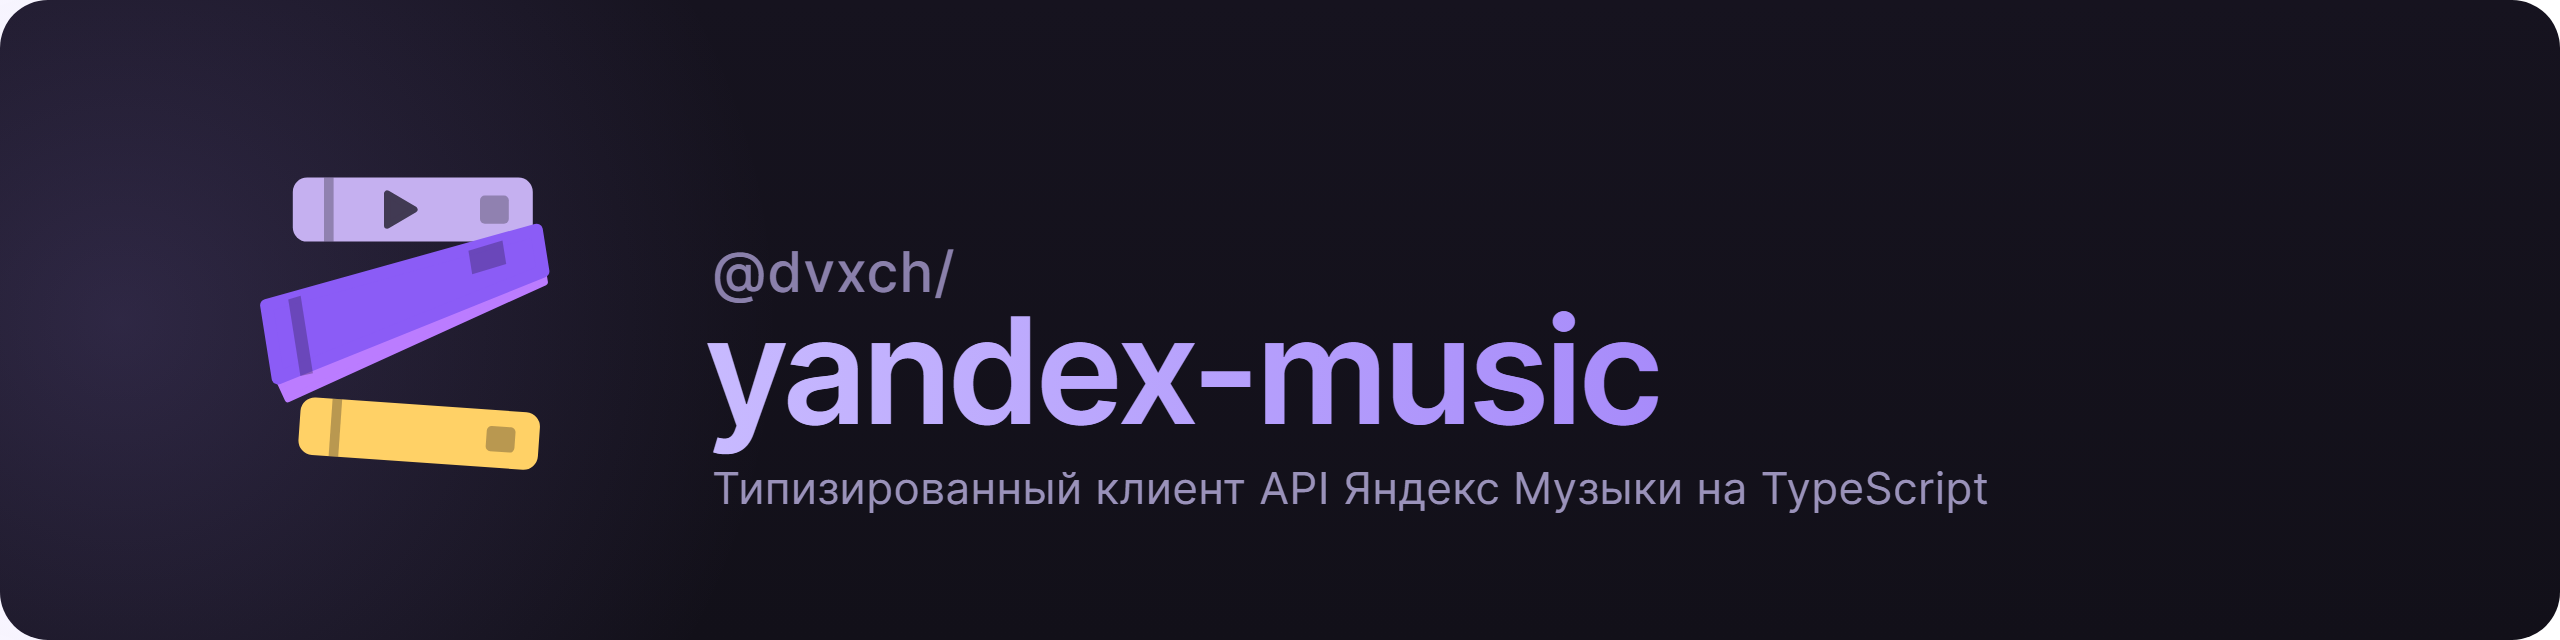
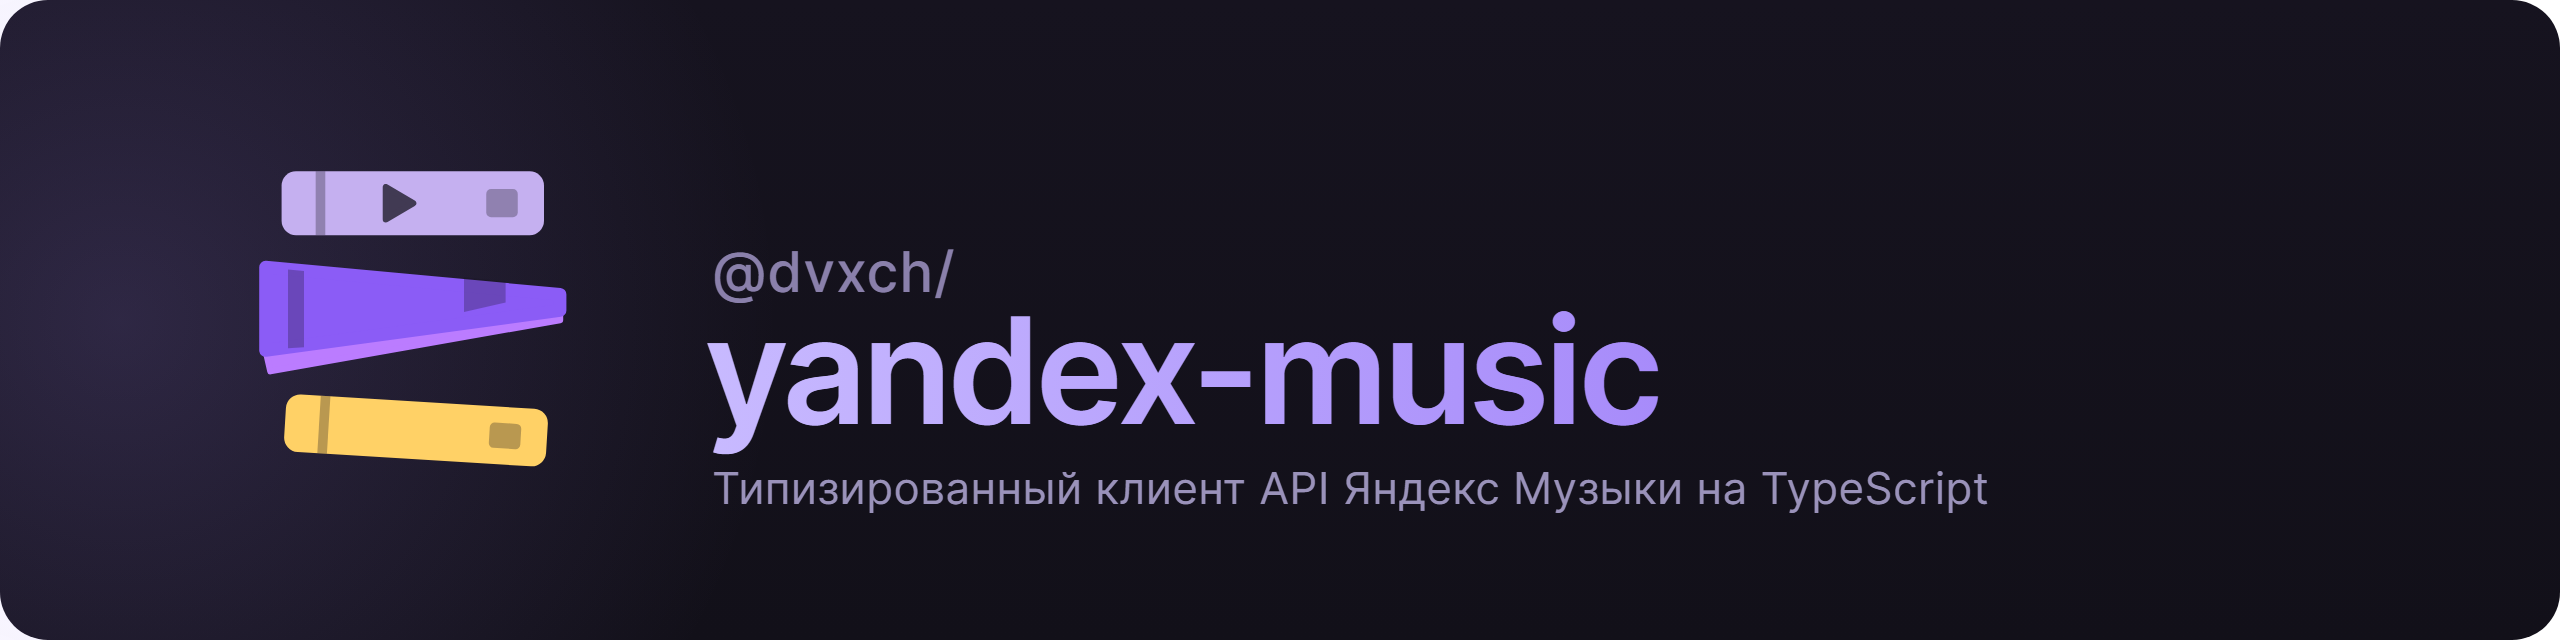
docs: логотип — средняя книга повёрнута в пространстве (клин), без зигзага
Три книги по центру: верхняя ровно, средняя в перспективе (грань сужается), нижняя чуть кривая.

Changed region(s): [[0.0938, 0.25, 0.2188, 0.75]]

diff --git a/CHANGELOG.md b/CHANGELOG.md
@@ -5,7 +5,7 @@ follows [Keep a Changelog](https://keepachangelog.com/en/1.1.0/).
 
 ## Unreleased
 
-- Новый логотип: три книги («библиотека») — верхняя ровно, средняя в перспективе и сильно наклонена, нижняя чуть кривая — вместо прежнего знака dvxch. Обновлены `assets/hero.svg`/`hero.png`, `favicon.svg`, `mark.svg`; добавлены одноцветные `mark-mono-dark.svg` и `mark-mono-light.svg`. Знак нарисован с нуля.
+- Новый логотип: три книги («библиотека») — верхняя ровно, средняя повёрнута в пространстве (грань сужается клином), нижняя чуть кривая — вместо прежнего знака dvxch. Обновлены `assets/hero.svg`/`hero.png`, `favicon.svg`, `mark.svg`; добавлены одноцветные `mark-mono-dark.svg` и `mark-mono-light.svg`. Знак нарисован с нуля.
 
 ## 0.4.1 - 2026-11-27
 
